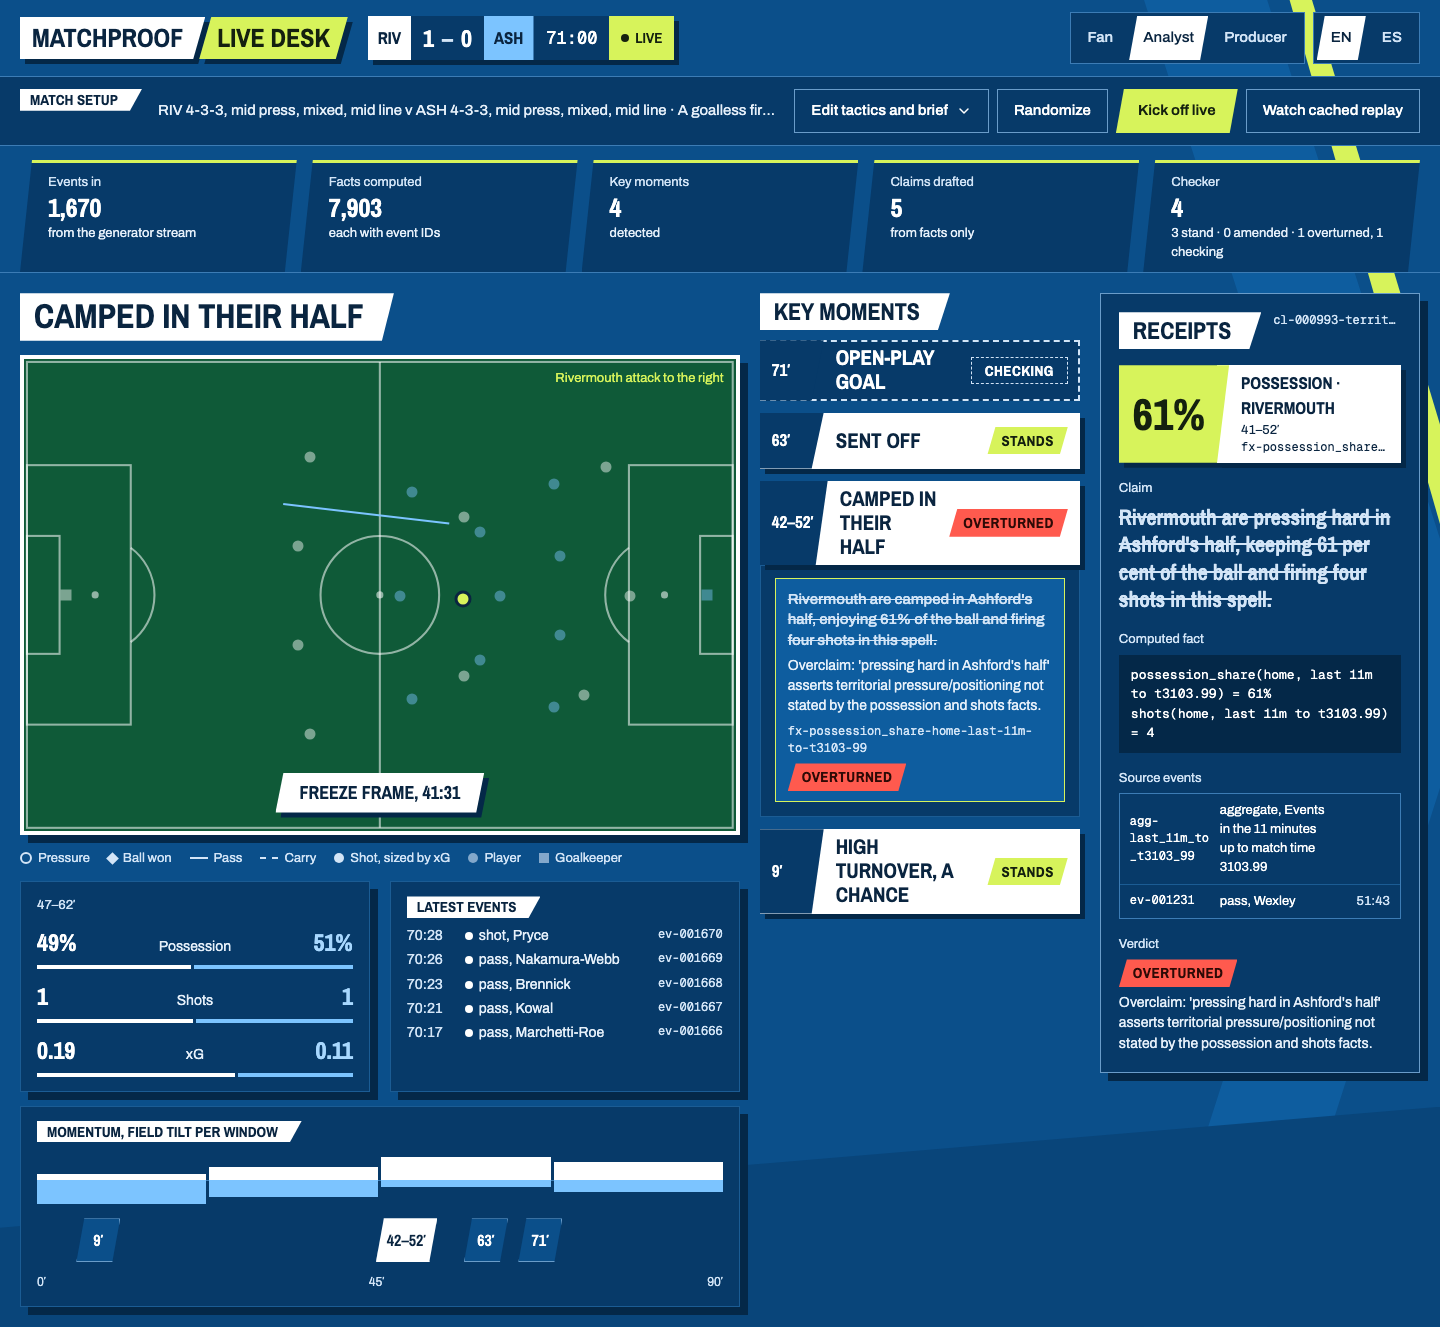
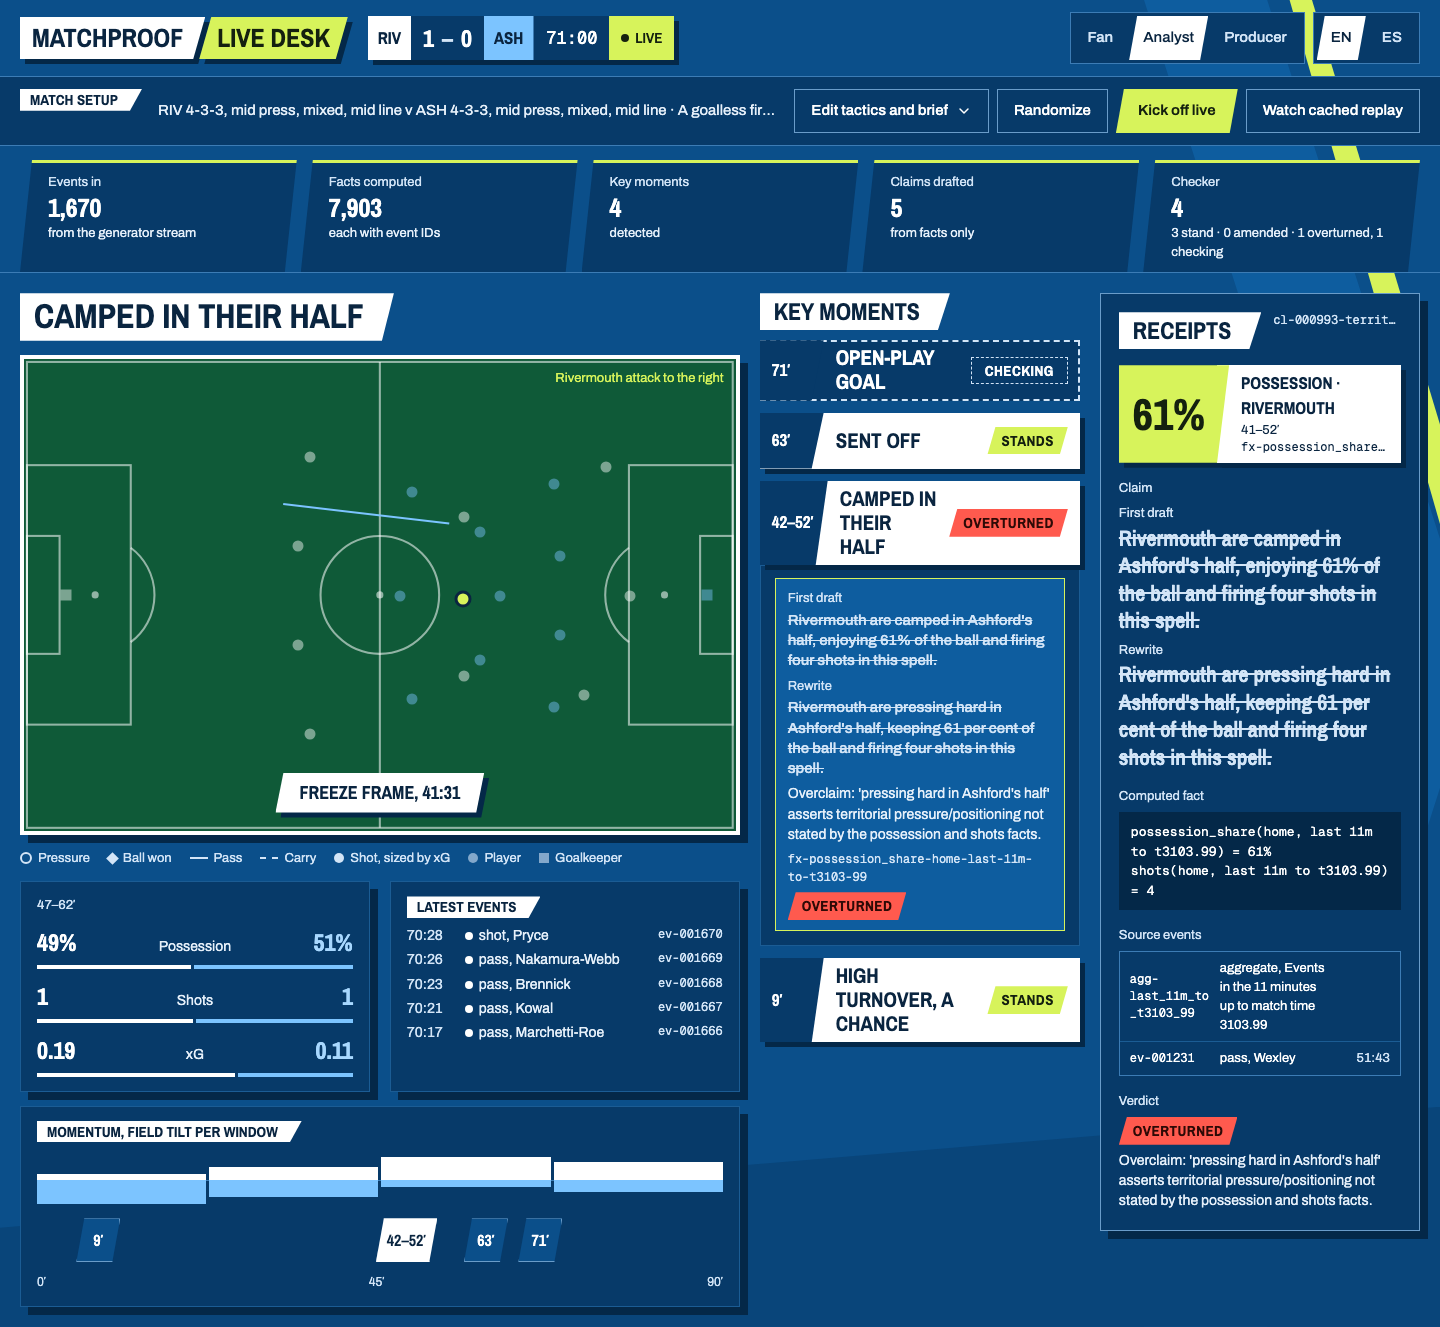
Show the first draft and the rewrite of an overturned claim Co-Authored-By: Claude Sonnet 5.5 <noreply@anthropic.com>

Changed region(s): [[0.5, 0.3708, 1.0, 0.9578]]

diff --git a/apps/web/src/desk/overturned.test.ts b/apps/web/src/desk/overturned.test.ts
@@ -1,0 +1,41 @@
+import { createElement } from "react";
+import { renderToStaticMarkup } from "react-dom/server";
+import { describe, expect, it } from "vitest";
+import { ClaimItem } from "@/components/desk/ClaimItem";
+import { EvidenceRail } from "@/components/desk/EvidenceRail";
+import { overturnedLines } from "./claimLines";
+import { copy } from "./copy";
+import { fixture } from "./fixture";
+import { buildRail } from "./railModel";
+
+const blocked = fixture.claims.find((c) => c.verdict === "blocked");
+const unescape = (text: string): string => text.replace(/&#x27;/g, "\'").replace(/&quot;/g, '"').replace(/&amp;/g, "&");
+const struck = (html: string): string[] => [...html.matchAll(/class="mp-struck[^"]*"[^>]*>([^<]*)</g)].map((m) => unescape(m[1] ?? ""));
+
+describe("overturned claim with a retry", () => {
+  it("lists the first draft, then the rewrite", () => {
+    expect(blocked?.draft_text).toBeTruthy();
+    for (const lang of ["en", "es"] as const) {
+      const lines = overturnedLines(blocked!, copy[lang]);
+      expect(lines).toEqual([
+        { label: copy[lang].claim.firstDraft, text: blocked!.draft_text },
+        { label: copy[lang].claim.rewrite, text: blocked!.text },
+      ]);
+    }
+  });
+
+  it("shows the text alone when there is no draft", () => {
+    const lone = { ...blocked!, draft_text: undefined };
+    expect(overturnedLines(lone, copy.en)).toEqual([{ text: blocked!.text }]);
+  });
+
+  it("strikes the same sentences in the feed and the rail", () => {
+    const view = { claim: blocked!, verdict: "blocked" as const, selected: true };
+    const feed = renderToStaticMarkup(createElement(ClaimItem, { copy: copy.en, view, onPick: () => undefined }));
+    const rail = buildRail(fixture, blocked!.fact_ids, blocked!.numbers.map((n) => n.fact_id), "en", copy.en);
+    const railHtml = renderToStaticMarkup(createElement(EvidenceRail, { copy: copy.en, claim: view, rail }));
+    expect(struck(feed)).toEqual([blocked!.draft_text, blocked!.text]);
+    expect(struck(railHtml)).toEqual(struck(feed));
+    expect(railHtml.indexOf(copy.en.claim.firstDraft)).toBeLessThan(railHtml.indexOf(copy.en.claim.rewrite));
+  });
+});

diff --git a/apps/web/src/components/desk/ClaimItem.tsx b/apps/web/src/components/desk/ClaimItem.tsx
@@ -1,6 +1,7 @@
 import type { Copy } from "@/desk/copy";
 import type { ClaimView } from "@/desk/model";
 import { displayReason } from "@/desk/reason";
+import { OverturnedLines } from "./OverturnedLines";
 import { VerdictStamp } from "./VerdictStamp";
 
 interface ClaimItemProps {
@@ -17,9 +18,11 @@ export function ClaimItem({ copy, view, onPick }: ClaimItemProps) {
     <li>
       <button type="button" className="mp-claim" aria-pressed={selected} onClick={() => onPick(claim.id)}>
         {amended ? <span className="mp-struck" style={{ fontSize: 14 }}>{claim.draft_text}</span> : null}
-        <span className={overturned ? "mp-struck" : undefined} style={{ fontWeight: 500, lineHeight: 1.35 }}>
-          {overturned ? (claim.draft_text ?? claim.text) : claim.text}
-        </span>
+        {overturned ? (
+          <OverturnedLines claim={claim} copy={copy} />
+        ) : (
+          <span style={{ fontWeight: 500, lineHeight: 1.35 }}>{claim.text}</span>
+        )}
         {overturned && claim.reason ? <span className="mp-note">{displayReason(claim.reason, copy)}</span> : null}
         <span style={{ display: "flex", flexWrap: "wrap", alignItems: "center", justifyContent: "space-between", gap: "6px 10px" }}>
           <span className="mono mp-muted" style={{ fontSize: 12 }}>

diff --git a/apps/web/src/components/desk/EvidenceRail.tsx b/apps/web/src/components/desk/EvidenceRail.tsx
@@ -2,6 +2,7 @@ import type { Copy } from "@/desk/copy";
 import type { ClaimView } from "@/desk/model";
 import type { RailView } from "@/desk/railModel";
 import { displayReason } from "@/desk/reason";
+import { OverturnedLines } from "./OverturnedLines";
 import { SectionTab } from "./SectionTab";
 import { StatCard } from "./StatCard";
 import { VerdictStamp } from "./VerdictStamp";
@@ -29,9 +30,13 @@ export function EvidenceRail({ copy, claim, rail }: EvidenceRailProps) {
             {rail.statCard ? <StatCard view={rail.statCard} /> : null}
             <div className="mp-step">
               <span>{r.claim}</span>
-              <span className={`display${verdict === "blocked" ? " mp-struck" : ""}`} style={{ fontSize: 22, fontWeight: 600, lineHeight: 1.25 }}>
-                {claim.claim.text}
-              </span>
+              {verdict === "blocked" ? (
+                <OverturnedLines claim={claim.claim} copy={copy} display />
+              ) : (
+                <span className="display" style={{ fontSize: 22, fontWeight: 600, lineHeight: 1.25 }}>
+                  {claim.claim.text}
+                </span>
+              )}
             </div>
             <div className="mp-step">
               <span>{r.fact}</span>

diff --git a/apps/web/src/components/desk/OverturnedLines.tsx b/apps/web/src/components/desk/OverturnedLines.tsx
@@ -1,0 +1,29 @@
+import type { Claim } from "@/contracts/types";
+import { overturnedLines } from "@/desk/claimLines";
+import type { Copy } from "@/desk/copy";
+
+interface OverturnedLinesProps {
+  claim: Claim;
+  copy: Copy;
+  display?: boolean;
+}
+
+/** Every attempt at an overturned claim, struck, with its label. The reason follows in the caller. */
+export function OverturnedLines({ claim, copy, display = false }: OverturnedLinesProps) {
+  const lines = overturnedLines(claim, copy);
+  return (
+    <>
+      {lines.map((line) => (
+        <span key={line.text} style={{ display: "flex", flexDirection: "column", gap: 2 }}>
+          {line.label ? <span className="mp-muted" style={{ fontSize: 13 }}>{line.label}</span> : null}
+          <span
+            className={`mp-struck${display ? " display" : ""}`}
+            style={display ? { fontSize: 22, fontWeight: 600, lineHeight: 1.25 } : { fontWeight: 500, lineHeight: 1.35 }}
+          >
+            {line.text}
+          </span>
+        </span>
+      ))}
+    </>
+  );
+}

diff --git a/apps/web/src/desk/claimLines.ts b/apps/web/src/desk/claimLines.ts
@@ -1,0 +1,16 @@
+import type { Claim } from "@/contracts/types";
+import type { Copy } from "./copy";
+
+export interface ClaimLine {
+  label?: string;
+  text: string;
+}
+
+/** The struck sentences of an overturned claim, in order: the first draft, then the rewrite. */
+export function overturnedLines(claim: Claim, c: Copy): ClaimLine[] {
+  if (!claim.draft_text || claim.draft_text === claim.text) return [{ text: claim.text }];
+  return [
+    { label: c.claim.firstDraft, text: claim.draft_text },
+    { label: c.claim.rewrite, text: claim.text },
+  ];
+}
